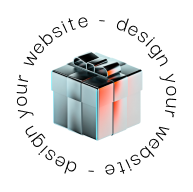
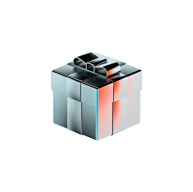
Updated

diff --git a/style.css b/style.css
@@ -27,10 +27,23 @@ body {
   letter-spacing: 0.05em;
   width: 100%;
   max-width: 1582px;
-  margin: 32px 96px 0 96px;
+  padding: 32px 96px 0 96px;
+  width: 100%;
+  max-width: 1582px;
   display: flex;
   justify-content: space-between;
+  -webkit-box-sizing: border-box;
+  -moz-box-sizing: border-box;
+  box-sizing: border-box;
 }
+
+/* .navbar-content {
+  padding: 32px 96px 0 96px;
+  width: 100%;
+  max-width: 1582px;
+  display: flex;
+  justify-content: space-between;
+} */
 
 .navbar .right {
   display: grid;
@@ -58,6 +71,12 @@ body {
   top: 20%;
   right: 20%;
   z-index: 2;
+  width: 192px;
+  height: 192px;
+}
+
+.fixed-item .text {
+  position: absolute;
 }
 
 .hero {
@@ -206,12 +225,14 @@ h2 {
 
 .footer {
   width: 100%;
-  max-width: 1564px;
-  padding: 64px;
   font-weight: normal;
   font-size: 32px;
   line-height: 110%;
   letter-spacing: 0.05em;
+}
+
+.footer .text {
+  padding: 64px;
 }
 
 .footer .text .second {

diff --git a/index.html b/index.html
@@ -9,6 +9,7 @@
   <body>
     <div class="page-wrapper">
       <div class="navbar">
+        <!-- <div class="navbar-content"> -->
         <div class="left">
           <a href src="/" class="logo"
             ><img src="./img/logo.svg" alt="Logo"
@@ -22,11 +23,13 @@
           <div class="links highlighted">
             <a href="#contact">contact me</a>
           </div>
+          <!-- </div> -->
         </div>
       </div>
 
       <div class="fixed-item">
-        <img src="./img/fixed-item.png" alt="Decoration" />
+        <img src="./img/fixed-item-text.png" alt="Decoration" class="text" />
+        <img src="./img/fixed-item.png" alt="Decoration" class="background" />
       </div>
 
       <div class="hero">
@@ -119,5 +122,6 @@ new customers.</div>
         <div class="second">contact@fredrikaurdal.com</div>
       </div>
     </div>
+    <script src="script.js"></script>
   </body>
 </html>

diff --git a/script.js b/script.js
@@ -1,0 +1,8 @@
+window.onscroll = function () {
+  rotate();
+};
+
+function rotate() {
+  let image = document.querySelector('.fixed-item .text');
+  image.style.transform = 'rotate(' + window.pageYOffset / 20 + 'deg)';
+}
